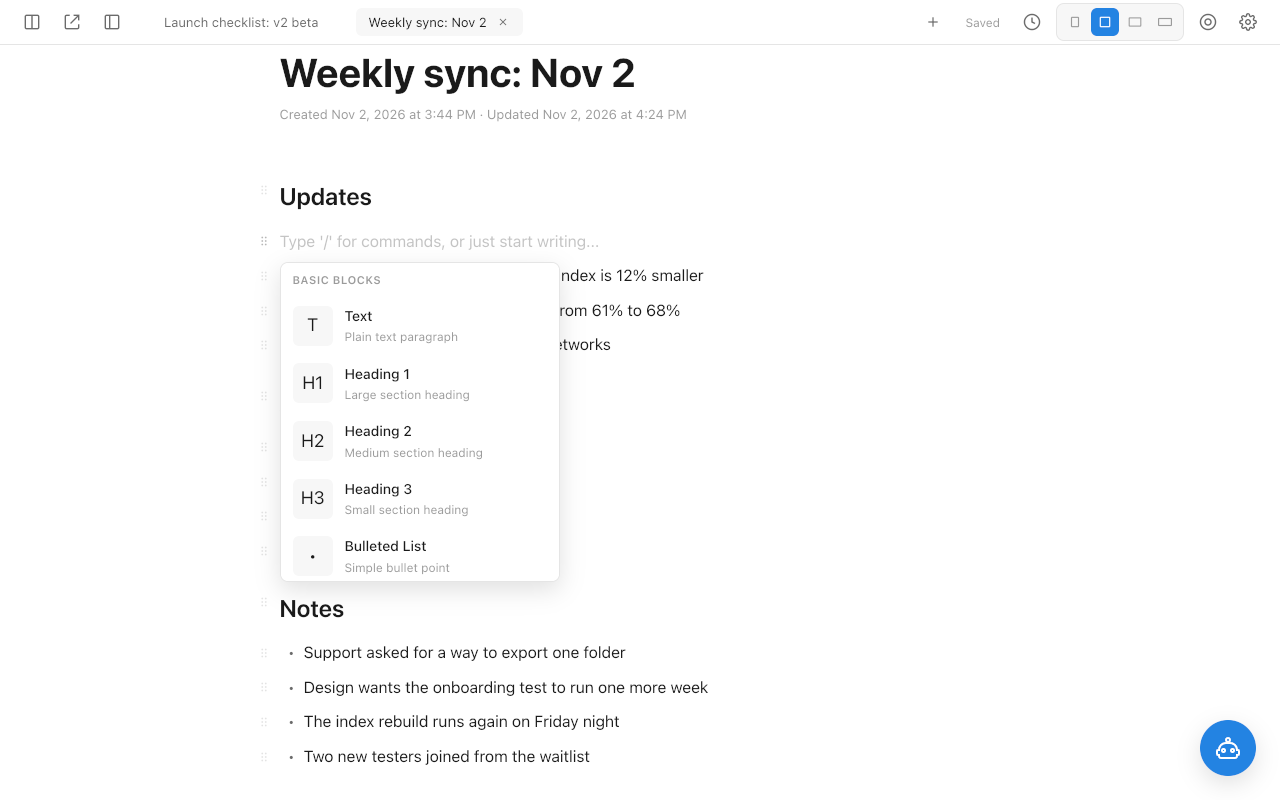
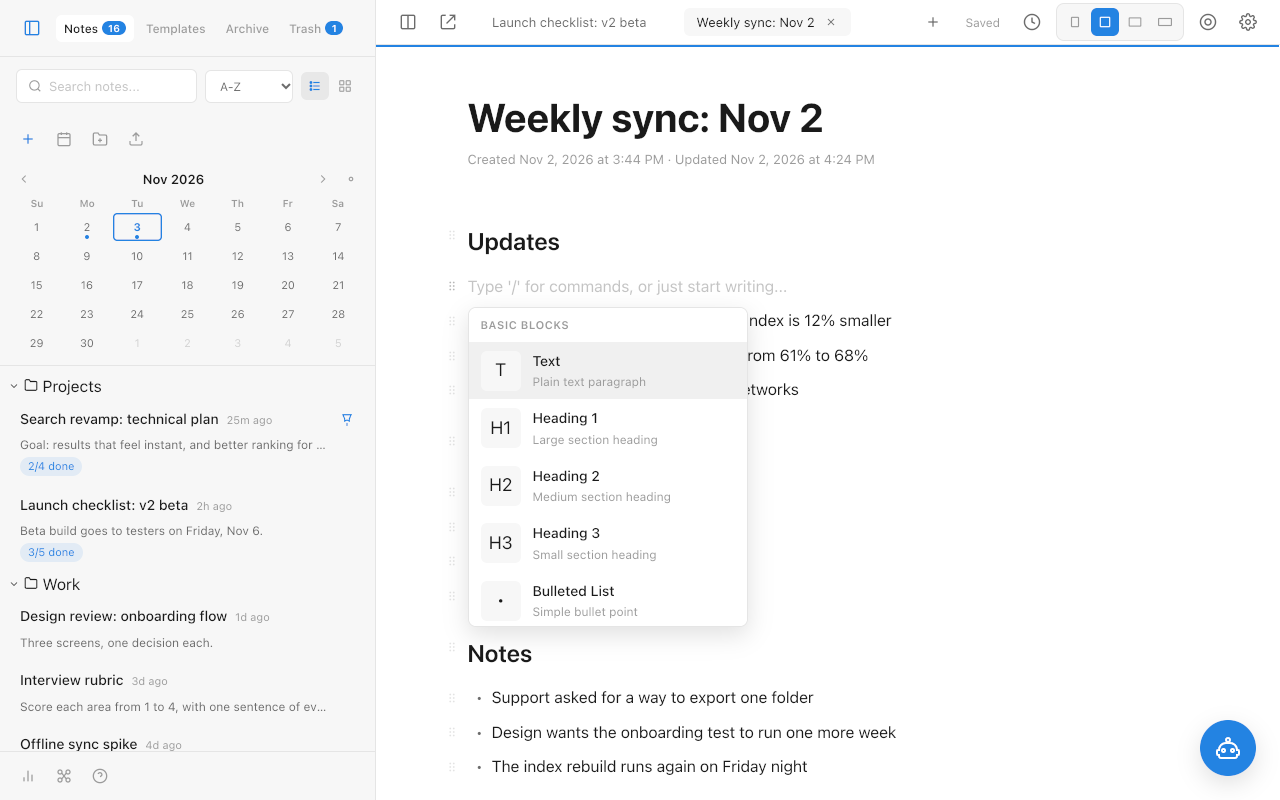
docs: the slash menu screenshot shows the default layout, with the menu under its block (NTN-14)
1.4.5 opens the slash menu under its block with the sidebar open and the note at its top. docs/screenshots/02-slash-menu.png now shows that layout, and SHOWCASE's caption says that shot comes from v1.4.5's build.

diff --git a/SHOWCASE.md b/SHOWCASE.md
@@ -2,7 +2,7 @@
 
 Real screenshots of NewTabNote in action — a block-based, Notion-style note editor that replaces your browser's new-tab page. 100% local, privacy-first, with an AI assistant and a fast keyboard-driven editor.
 
-> _Captured from the packaged v1.4.3 build of the extension's new-tab page on Nov 1, 2026, on a fresh profile with made-up sample notes. The store screenshots frame the same kind of views; the Side Panel and Settings ones come from the 1.4.4 build, with the new icon._
+> _Captured from the packaged v1.4.3 build of the extension's new-tab page on Nov 1, 2026, except the slash menu, which is from v1.4.5's build on Nov 2, each on a fresh profile with made-up sample notes. The store screenshots frame the same kind of views; the Side Panel and Settings ones come from the 1.4.4 build, with the new icon._
 
 ---
 
